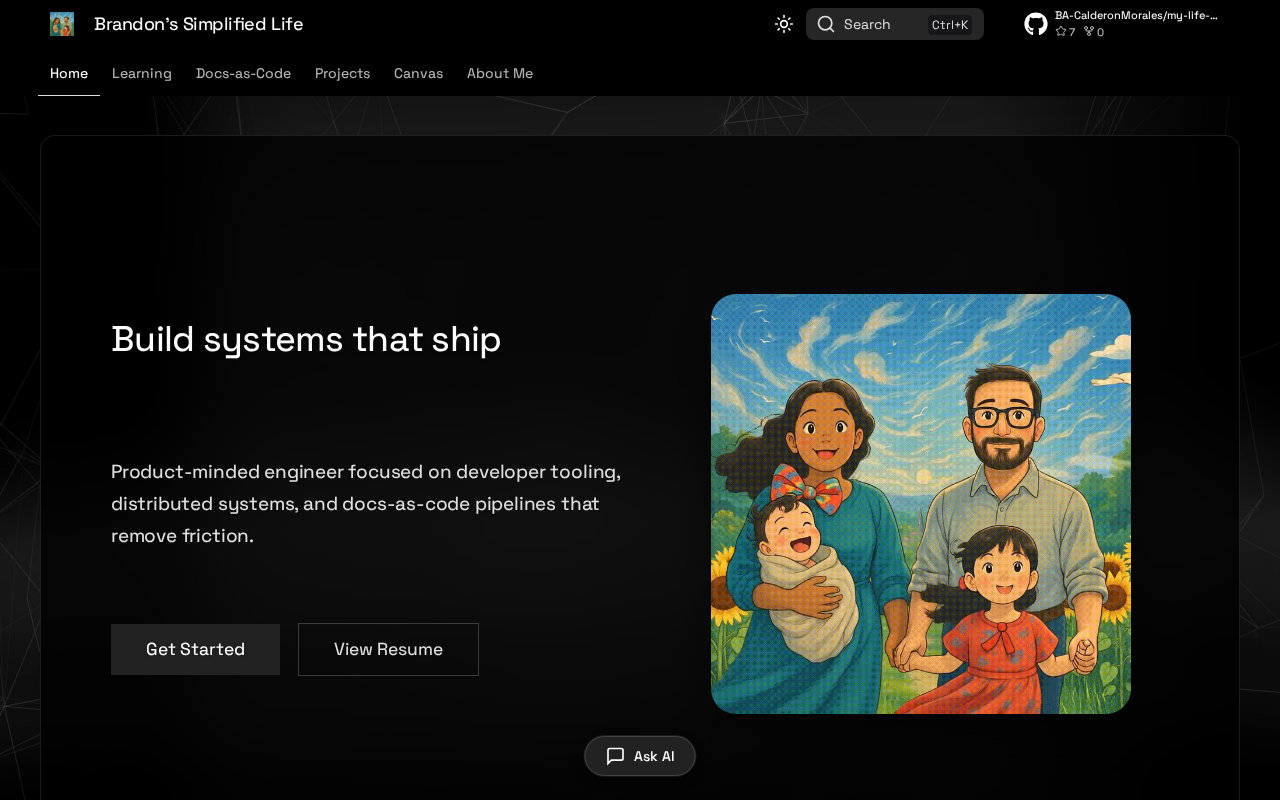
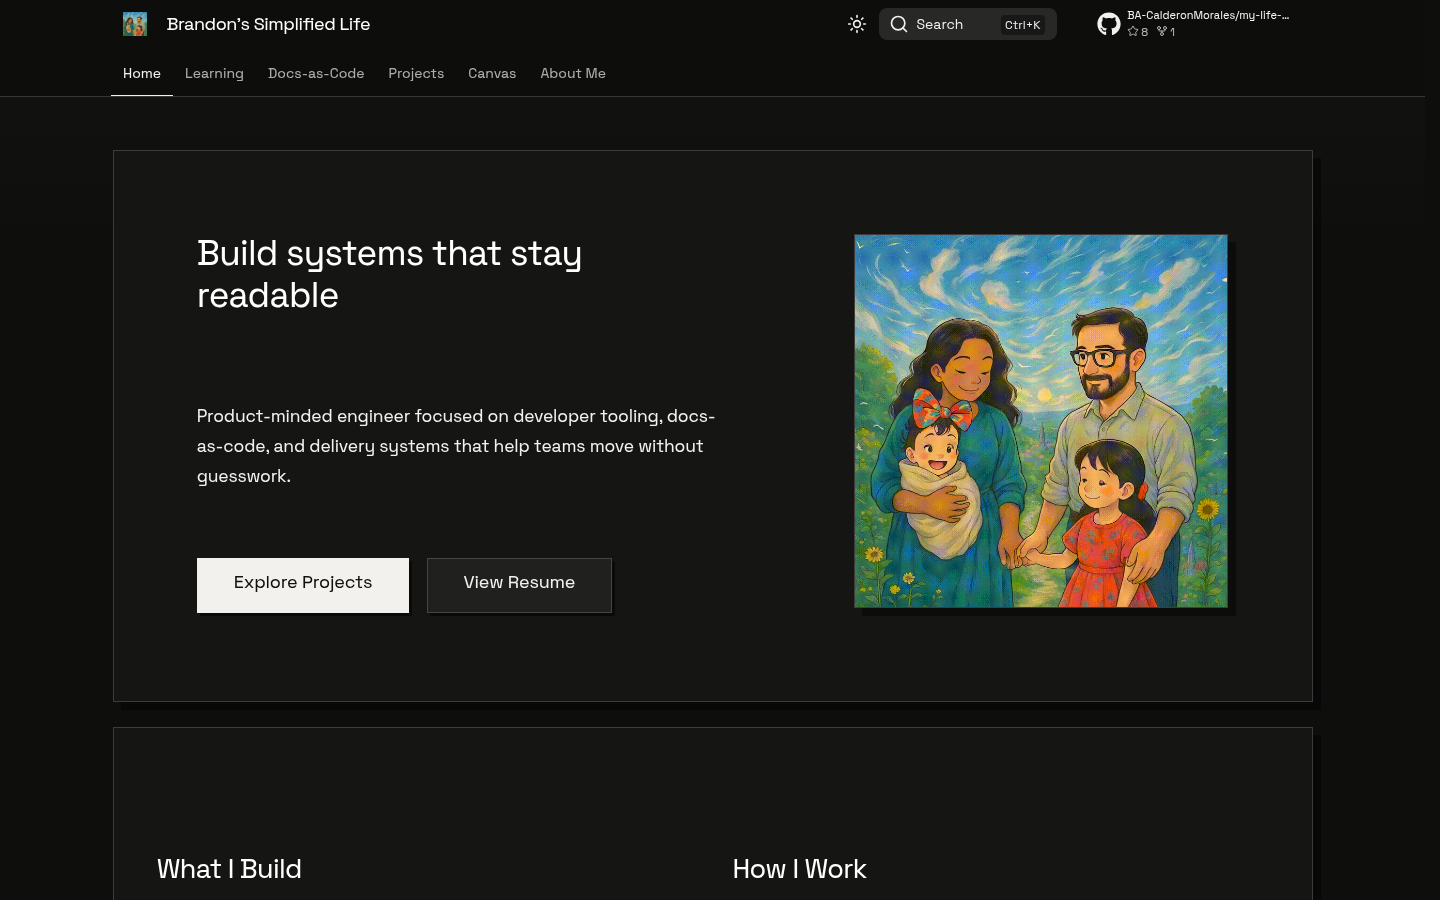
docs: refresh readme and homepage preview

diff --git a/README.md b/README.md
@@ -1,109 +1,63 @@
-# My Life As A Dev
+# Brandon's Simplified Life
 
 [![Build status](https://img.shields.io/github/actions/workflow/status/BA-CalderonMorales/my-life-as-a-dev/github_pages.yml?branch=main&label=build)](https://github.com/BA-CalderonMorales/my-life-as-a-dev/actions)
 [![License](https://img.shields.io/github/license/BA-CalderonMorales/my-life-as-a-dev)](https://github.com/BA-CalderonMorales/my-life-as-a-dev/blob/main/LICENSE)
-[![Documentation](https://img.shields.io/badge/docs-live-blue)](https://ba-calderonmorales.github.io/my-life-as-a-dev/)
+[![Live site](https://img.shields.io/badge/site-live-1f9d8b)](https://ba-calderonmorales.github.io/my-life-as-a-dev/)
 
-A versioned documentation hub for projects, learning notes, and platform experiments. The site is built with Zensical, themed with Material for MkDocs, and released to GitHub Pages with mike.
+The repository behind a versioned docs-and-project hub for developer tooling, learning notes, platform experiments, and docs-as-code workflows. It doubles as a working reference for Zensical builds, Rust CLI automation, versioned releases, image optimization, and the site AI assistant.
 
 ![Site Preview](docs/assets/images/homepage-screenshot.png)
 
-<p align="center">
-  <a href="https://ba-calderonmorales.github.io/my-life-as-a-dev/"><strong>Explore the Documentation</strong></a>
-</p>
+## Explore
 
-## Quick Links
+- [Live Documentation](https://ba-calderonmorales.github.io/my-life-as-a-dev/) for the published site
+- [Docs-as-Code](https://ba-calderonmorales.github.io/my-life-as-a-dev/docs-as-code/) for build, workflow, AI, and security notes
+- [Learning](https://ba-calderonmorales.github.io/my-life-as-a-dev/learning/) for algorithms, data structures, interview prep, and cloud AI notes
+- [Projects](https://ba-calderonmorales.github.io/my-life-as-a-dev/projects/) for active tools, experiments, and implementation details
+- [Resume](https://ba-calderonmorales.github.io/my-life-as-a-dev/resume/) for the current profile and experience summary
 
-- [Live Documentation](https://ba-calderonmorales.github.io/my-life-as-a-dev/) - Browse the published site
-- [Docs-as-Code Platform](https://ba-calderonmorales.github.io/my-life-as-a-dev/docs-as-code/) - Workflow, stack, AI, and security guides
-- [Learning Section](https://ba-calderonmorales.github.io/my-life-as-a-dev/learning/) - Algorithms, data structures, and interview prep
-- [Projects](https://ba-calderonmorales.github.io/my-life-as-a-dev/projects/) - Active work, experiments, and supporting notes
+## What Lives Here
 
-## Stack
+- `docs/` contains the published content, landing pages, project docs, and learning material
+- `config/zensical/` is the editable source of truth for site configuration
+- `zensical.toml` is generated from the modular config before serve and build
+- `scripts/rust/` contains `doc-cli`, the Rust tool used for local workflows and release tasks
+- `scripts/python/` contains deploy helpers, config merge tooling, and image optimization code
+- `e2e/` and `tests/` cover shared UI behavior and plugin logic
 
-- **Zensical** for primary local development and production builds
-- **Material for MkDocs** for navigation, theme components, and content rendering
-- **Mike** for versioned documentation releases
-- **Rust `doc-cli`** for local serve, build, and deploy workflows
-- **GitHub Actions** for CI and GitHub Pages deployment
+## Run It Locally
 
-## Local Development
-
-### Prerequisites
-
-- Python 3.10+
-- [uv](https://docs.astral.sh/uv/)
-- Rust and Cargo if you want to rebuild `doc-cli`
-
-### Setup
+Prerequisites: Python 3.10+, [`uv`](https://docs.astral.sh/uv/), and Rust/Cargo only if you want to rebuild `doc-cli`.
 
 ```bash
 git clone https://github.com/BA-CalderonMorales/my-life-as-a-dev.git
 cd my-life-as-a-dev
 uv venv .venv
 make setup
+make serve
 ```
 
-### Common Commands
+Open `http://localhost:8001/my-life-as-a-dev/`.
+
+Useful commands:
 
 ```bash
-make serve        # Start Zensical on port 8001
-make build        # Production build
-./doc-cli serve   # CLI wrapper for local serving
-./doc-cli build   # CLI wrapper for builds
-./doc-cli.sh      # Interactive menu
+make build
+./doc-cli.sh
 ```
 
-The local site is served at `http://localhost:8001/my-life-as-a-dev/`.
+`make build` validates the site output. `./doc-cli.sh` rebuilds and launches the Rust CLI wrapper when you want the interactive menu or release tooling.
 
-## Versioned Release Workflow
+## Validate And Release
 
 ```bash
-./doc-cli deploy
-./doc-cli deploy 0.3.2 --push
+make build
+./doc-cli help
+./doc-cli validate
+./doc-cli nav-check
+./doc-cli update <version> --alias latest --push
 ```
-
-Notes:
-
-- `config/zensical/*.toml` is auto-merged into `zensical.toml` during serve and build commands.
-- Run `make build` before committing documentation changes.
-- Use Conventional Commits for release-friendly history.
-
-## Repository Layout
-
-```text
-my-life-as-a-dev/
-|-- docs/                  # Documentation content and assets
-|-- config/zensical/       # Modular Zensical configuration
-|-- zensical.toml          # Generated Zensical configuration
-|-- scripts/rust/          # Rust CLI source (doc-cli)
-|-- scripts/python/        # Python helper scripts
-|-- e2e/                   # End-to-end tests
-|-- tests/                 # Unit tests
-`-- site/                  # Built static site (gitignored)
-```
-
-## AI Chat Widget
-
-The site includes a docs assistant interface with a browser-side widget and a Cloud Run proxy backend.
-
-- Frontend: JavaScript MVVM structure with DOM injection, rate limiting, and XSS protections
-- Backend: Go proxy plus Google ADK flows on Google Cloud Run
-- Security: CORS validation, prompt-injection handling, and Secret Manager-backed configuration
-
-Related documentation:
-
-- [AI Overview](https://ba-calderonmorales.github.io/my-life-as-a-dev/docs-as-code/ai/)
-- [AI Architecture](https://ba-calderonmorales.github.io/my-life-as-a-dev/docs-as-code/ai/architecture/)
-- [Chat Widget Security](https://ba-calderonmorales.github.io/my-life-as-a-dev/docs-as-code/security/chat-security/)
-
-## Contributing
-
-1. Create a branch for your change.
-2. Make the update.
-3. Run `make build`.
-4. Submit a pull request.
 
 ## License
 
-MIT License - see [LICENSE](LICENSE) for details.
+MIT License. See [LICENSE](LICENSE).
